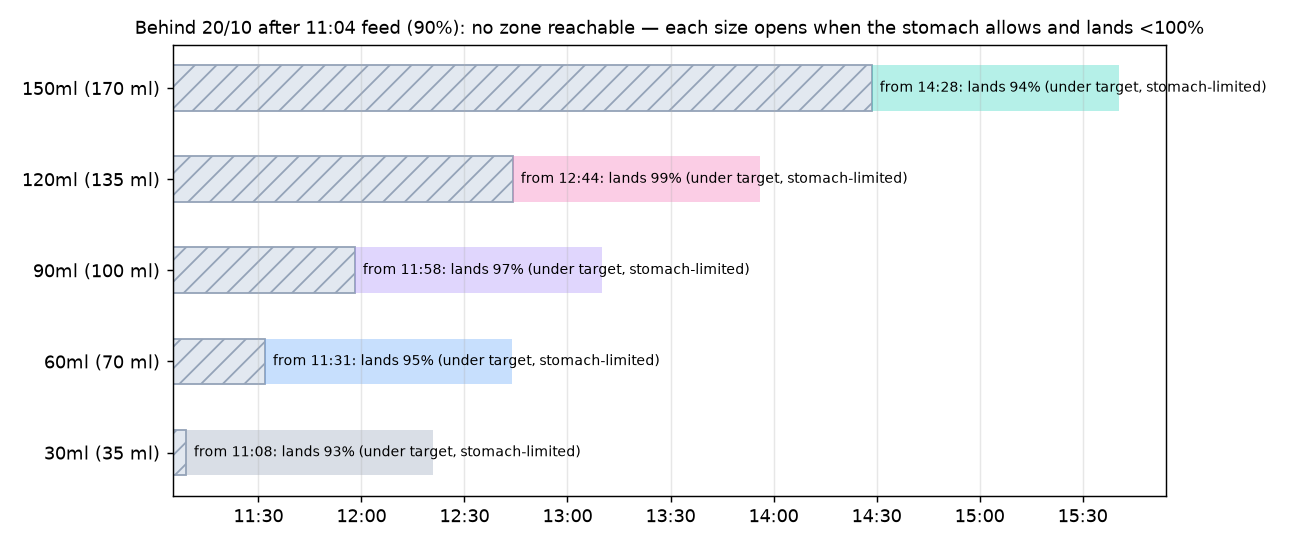
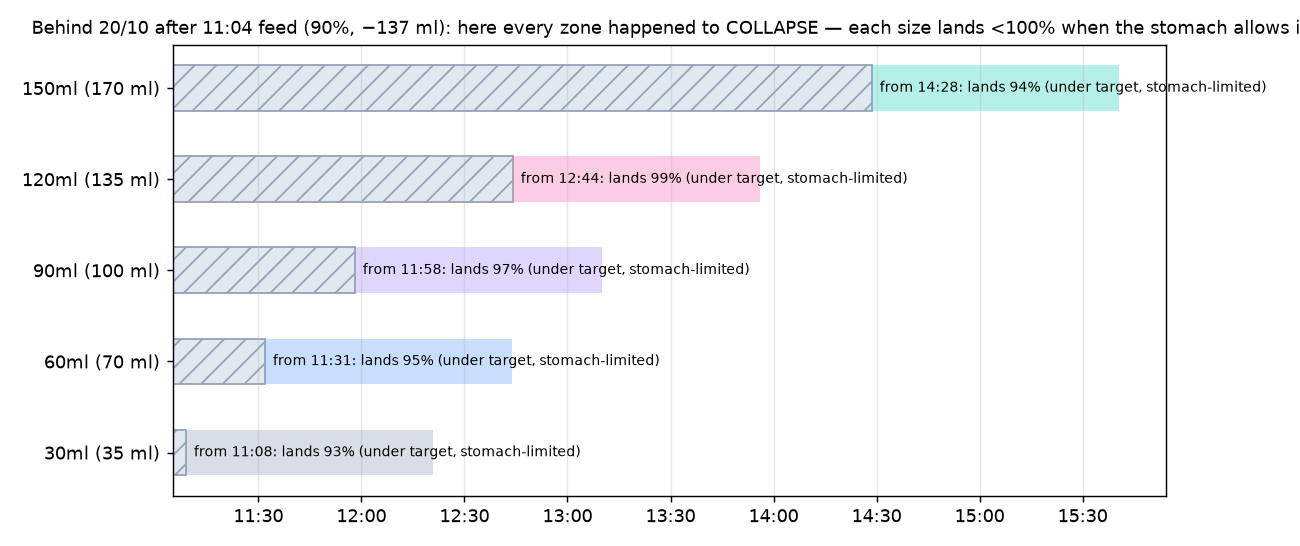
docs(feeding-zones): one per-bottle rule; behind can have real zones (proof + history scan); correction credited to Koen

Changed region(s): [[0.0, 0.0311, 1.0, 0.0623]]

diff --git a/design/2026-10-25-feeding-zones.md b/design/2026-10-25-feeding-zones.md
@@ -2,6 +2,8 @@
 
 **Status:** Brainstorm / for discussion — no code change
 **Date:** 2026-10-25 · **Author:** Grok Bot for Koen · **Applies to:** web (`baby-milk-tracker` 1.1.56, `e72acd1`) and mobile (`milkwise` 1.2.9, `e0020e3`)
+> **Correction (2026-10-25, credit: Koen).** The first version of this doc claimed that *when the baby is behind there are no real zones — every size lands under 100 %*. Koen challenged this ("a 90 bottle at the time the stomach allows it could push her to 103 %"), and he is right: being behind at the last feed (I < D) says nothing about I(S)+B at the stomach-fit time S. The ahead/behind split has been replaced by one per-bottle rule (§3.2–3.4), and a scan of the real feed history (§4.3) shows real zones while behind after **~24 % of the 'behind' feeds**. The 20/10 example is now labelled as a case where all zones *happened* to collapse.
+
 **Related:** [next-session-predictor-design-v3.md](next-session-predictor-design-v3.md) §4, §7, §8.7 · [sonnet-review-calculation-audit.md](sonnet-review-calculation-audit.md) · Notion *!Milkwise* "Milk Balance" / Predictor 3
 
 All times are Europe/Brussels. Numbers were produced with the real web `calculations.ts` (vendored copy, byte-identical to `main`) by `verify_zones.ts` (see §9).
@@ -22,7 +24,7 @@ Consequences observed on 24/10 (see the 2026-10-24 timeline analysis):
 
 - *"60 now, 30 at 16:08, 60 twice"* — the advised size gets both a ghost and a green marker (`:306-322`); fitting sizes below green are not noise-cut (v3 §7.2).
 - The future markers say 90 at 17:04 and 120 at 17:27, but green silently jumps to **90 at 16:09** and **120 at 16:30**, because green uses 105 % and the markers use 100 %.
-- In the *behind* case none of this matters (all three rules coincide, the stomach decides) — the confusion is purely an *ahead* problem.
+- The mismatch matters whenever a bottle can land above 100 % at the moment it fits the stomach — usually when ahead, but also in roughly a quarter of the *behind* situations (§4.3). Only when every zone collapses (e.g. 20/10, §4.2) do all three rules coincide.
 
 Koen's direction (2026-10-25): 100 % is the most consistent rule, drop the ghosts — but first explore **zones**.
 
@@ -39,20 +41,22 @@ Notation (all in *formula* ml): D = daily target (`dailyTargetMl`), r = D/24 (`h
 `bottleCredit` (`calculations.ts:97-108`) is `milk` for age ≤ 24 h and `max(0, milk − r·(age−24))` after. Each term is constant then linearly decreasing then 0, so I(T) is **continuous, piecewise linear and non-increasing** as long as no new feed is added. Its slope is `−r · n(T)` where n(T) = number of feeds that are older than 24 h but still have credit left (usually 1, sometimes 2 → steeper; 0 → flat plateau).
 Numerically verified: max rise of I over one-minute steps across 10 h = **0.000000 ml** in both snapshots.
 
-### 3.2 Zone of bottle X
+### 3.2 Zone of bottle X — one rule, no ahead/behind split
 
 ```
-landing(T, X) = (I(T) + B) / D                              status right after giving X at T
-open(X)  = max( stomachFits(X),  first T with I(T) + B ≤ 1.05·D )
-close(X) =                       first T with I(T) + B ≤ D
+L(T)     = I(T) + B                                  formula in the stomach-free "status after giving X at T"
+S        = stomachFits(X)  = stomachReadyAtMs(...)   (calculations.ts:442, cap = steady-state peak × 1.1)
+t105     = first T ≥ now with L(T) ≤ 1.05·D
+t100     = first T ≥ now with L(T) ≤ D
+open(X)  = max(S, t105)
+close(X) = t100
 ```
 
-`stomachFits(X)` = `stomachReadyAtMs` (`calculations.ts:442`, cap = steady-state peak × 1.1).
-Because I is non-increasing, `landing` only goes down, so each threshold is crossed exactly once: the zone is a single interval.
+**Claim.** With no new feed, X has a real zone `[open, close)` **iff `L(S) > D`, i.e. `I(S) + B > D`**. Otherwise the zone is *collapsed*: X is available from S and lands at `L(S)/D ≤ 100 %`, and the bottle can never land at 100 % or above afterwards.
 
-- If `open(X) < close(X)` → **normal zone** `[open, close]`.
-- If `open(X) ≥ close(X)` → the stomach is the binding constraint: when X first fits, it already lands **below 100 %**. Call this a **collapsed zone**: "available from `stomachFits(X)`, lands at p %, under target".
-- If `close(X) ≤ now` → the zone is **past**: X now lands below 100 %. X is still safe (it can only lower the status), it just no longer fills the gap.
+**Proof.** By §3.1, I — hence L — is non-increasing in T. (i) If L(S) > D, then t100 > S (L has not yet reached D at S), and t105 ≤ t100 (a non-increasing function reaches 1.05D before D), so open = max(S, t105) < t100 = close: a non-empty interval, on which D < L ≤ 1.05D. If moreover L(S) ≤ 1.05D, then t105 ≤ S and the zone **opens at S** ("fits the stomach and already lands within 105 %"). If L(S) > 1.05D, it opens later, at t105. (ii) If L(S) ≤ D then t100 ≤ S ≤ open, so the interval is empty; for every T ≥ S, L(T) ≤ L(S) ≤ D. ∎
+
+**Consequence for 'behind'.** "Behind" (I(t_feed) < D right after the last feed) only means I < D; it does not bound I(S) + B. A real zone despite being behind needs the remaining deficit at S to be smaller than the bottle: `D − I(S) < B`. Because I is **flat** while no feed is older than 24 h (n = 0 in §3.1), the deficit often does not grow during the stomach wait, so this happens regularly.
 
 ### 3.3 Overlap condition (exact, slope-independent)
 
@@ -82,9 +86,10 @@ With D ≈ 1390 ml, 0.05·D ≈ **69.5 ml** (69.1 on 20/10). Formula table 35, 7
 
 So **every neighbouring pair overlaps** and some next-but-one pairs overlap a few minutes. This is weight-dependent: at D < 700 ml (≈ 4.7 kg) the 35-ml steps stop overlapping; for a bigger baby overlaps grow. Koen's intuition ("while 90 goes from 105 now to 100 later, 120 kicks in at 105") is **mathematically correct**.
 
-### 3.4 Behind case semantics
+### 3.4 Behind vs ahead — only a matter of which case of §3.2 applies
 
-When I(now) + B ≤ D, `close(X) = now` already: X cannot reach 100 % and **waiting never helps** (I only decreases). So when the baby is behind there are no real zones; every size is "open, under target" from the moment the stomach allows it. Note: this also shows that v3 §8.7's *goal* ("wait until X lands at 100 %") is unreachable by waiting; its algorithm is just the 100 % rule.
+There is no separate behind rule. Per bottle: real zone if `I(S)+B > D`, collapsed otherwise. When behind, small bottles and long stomach waits tend to collapse; bottles with `B > D − I(S)` get a real zone exactly as in the ahead case.
+Note on v3 §8.7: for a *collapsed* bottle, waiting indeed never helps (L only decreases), so §8.7's goal "wait until X lands at 100 %" is unreachable for that bottle; for a non-collapsed bottle the 100 % time is simply `close(X)`. Either way §8.7's algorithm equals the 100 % rule.
 
 ### 3.5 Sizes above preferred + 1, stomach cap
 
@@ -112,7 +117,7 @@ Overlaps: 30/60 28 min, 60/90 25 min, 90/120 35 min, 30/90 3 min, 60/120 4 min. 
 
 *Figure B — zones per size, ahead case. Hatched = stomach full; solid = zone; pale tail = after close (lands < 100 %).*
 
-### 4.2 Behind — 20/10, after 120 at 11:04 (status 90.1 %, −137 ml, D = 1382.3)
+### 4.2 Behind, all zones happened to collapse — 20/10, after 120 at 11:04 (status 90.1 %, −137 ml, D = 1382.3)
 
 | Size | Stomach fits | Lands at that moment | Zone |
 |---|---|---|---|
@@ -122,11 +127,30 @@ Overlaps: 30/60 28 min, 60/90 25 min, 90/120 35 min, 30/90 3 min, 60/120 4 min. 
 | 120 | 12:44 | 98.9 % | collapsed |
 | 150 | 14:28 | 94.1 % | collapsed |
 
-The stomach dictates everything; sizes appear one by one; none reaches 100 %.
+Here every size collapses, **not because she is behind but because the deficit is larger than every bottle at its stomach time**: D − I(S) ≥ 137 ml vs B = 35…135 ml for 30…120; for 150 (170 ml) the 3 h 24 min stomach wait lets I decay further (14:28: deficit ≈ 270 ml), so it also lands under 100 % (94.1 %).
 
 ![Gantt — behind](img/zones-c-gantt-behind.png)
 
-*Figure C — behind case: no reachable zone; each size is available from its stomach time and lands under target.*
+*Figure C — 20/10: a behind case in which every zone collapsed (deficit > bottle at stomach-fit time).*
+
+### 4.3 Behind with real zones — real feed history scan
+
+`scan_behind_zones.ts` replays every feed since data start (31/05/2026, 1142 feeds; first 24 h skipped), with the weight/D valid on that day and the current preferred size 120 (so sizes 30–150). For each feed whose post-feed status was < 100 %, it checks each size for `I(S)+B > D` with S before the actual next feed.
+
+| Snapshot | Feeds evaluated | Behind after feed | Behind *with* ≥1 real zone | Share |
+|---|---|---|---|---|
+| 24/10 | 1131 | 847 | **203** | 24.0 % of behind · 17.9 % of all |
+| 20/10 | 1094 | 827 | 202 | 24.4 % · 18.5 % |
+
+Real zones by size (24/10): 30: 94 · 60: 163 · 90: 186 · 120: 149 · 150: 3. (Caveat: preferred size was not always 120 historically.)
+
+Example 1 — **16/10 17:01, 120 given, status 98.2 % (−24 ml)**: 30 zone 17:11–18:11 (lands 100.8 % when it fits), 60 17:34–18:48 (103.3 %), **90 18:08–19:19 (lands 105.5 % at 18:00 → opens at 105 % at 18:08 and closes at 100 %)**, 120 18:46–19:55 (104.8 %), 150 collapsed (99.9 %). Actual next feed 19:18 — inside the 90 and 120 zones. This is exactly Koen's scenario.
+
+Example 2 — **22/10 19:15, 70 ml, status 96.0 % (−56 ml), intake flat for the next hour**: 60 zone 19:42–20:44 (lands 101.0 %), 90 20:08–21:15 (103.2 %); 30 and 150 collapsed; 120's zone (lands 104.0 % at 20:54) starts after the actual next feed at 20:45.
+
+![Gantt — behind with real zones](img/zones-e-gantt-behind-real-zone.png)
+
+*Figure E — real data 16/10: behind after the feed, yet 30/60/90/120 have real zones.*
 
 ## 5. UI options
 
@@ -136,7 +160,7 @@ The stomach dictates everything; sizes appear one by one; none reaches 100 %.
 
 Rules proposed for discussion:
 
-1. **Green = largest size whose zone contains now** (lands between 100 and 105 %). If none: behind → largest size that fits the stomach (labelled "under target"); ahead → nothing green, next zone opening shown.
+1. **Green = largest size whose zone contains now** (lands between 100 and 105 %). If none is in zone: if some sizes are collapsed and fit now → largest of them, labelled "under target"; otherwise nothing green and the next opening is shown.
 2. **Noise-cut**: hide sizes whose zone is past, and optionally smaller sizes in zone (show only green + upcoming).
 3. **Labels**: bar from open to close; label `90 · 16:09–17:05`, with the close marked as "ideal".
 4. **No ghosts** — the bar's left end already says "since when".
@@ -145,7 +169,7 @@ Rules proposed for discussion:
 ## 6. Edge cases
 
 - **Stomach-limited**: open = stomachFits; if ≥ close → collapsed zone (show as a point with "lands p %").
-- **Behind**: all collapsed, see §3.4. Possibly add text "behind — give the largest size that fits".
+- **Behind**: no special case — per bottle, real zone or collapsed (§3.2). If *all* fitting sizes are collapsed, possibly show "behind — give the largest size that fits".
 - **Right after a feed**: everything is in the future; first zone opens when the stomach allows and intake ≤ 1.05D − B.
 - **Deep overfeed**: zones can be > 48 h away → reuse the 48 h cap from `intakeReadyAtMs` and show "later".
 - **Plateau (n = 0)**: zones stretch; no change to rules.
@@ -160,14 +184,14 @@ Rules proposed for discussion:
 
 ## 8. Code impact (when/if adopted)
 
-- `calculations.ts` (web `:477-551`, mobile `:417-480`): add `intakeZone(feeds, B, r, D, now) → { openMs, closeMs, landingAtOpenPct, state }`; `canTakeProgression` returns zones; `fitsNow` = `open ≤ now < close` (or behind rule).
+- `calculations.ts` (web `:477-551`, mobile `:417-480`): add `intakeZone(feeds, B, r, D, now) → { openMs, closeMs, landingAtOpenPct, state }`; `canTakeProgression` returns zones; `fitsNow` = `open ≤ now < close`, or collapsed and `S ≤ now`.
 - Remove `ghostIntakeReadyAtMs` (web `CanTakeCard.tsx:57`, mobile `calculations.ts:202`) and the ghost map (web `:134-160`, mobile `DashboardScreen.tsx:215-229`).
 - Rendering: web `CanTakeCard.tsx:303-345`, mobile `DashboardScreen.tsx:257-269` → bars.
 - Docs: v3 §7 rewritten; §8.7 rewritten (see §3.4).
 
 ## 9. Reproduction
 
-Verifier (outside the repo, read-only): `/workspace/milkwise-verify/verify_zones.ts <db> <ISO time> <out.json>`; charts by `zones/plot.py`. Snapshots `milkwise-data-20261024-161114` (ahead, ref 14:31) and `milkwise-data-20261020-111441` (behind, ref 11:05).
+Verifier (outside the repo, read-only): `/workspace/milkwise-verify/verify_zones.ts <db> <ISO time> <out.json>`; charts by `zones/plot.py` and `zones/plot_behind_real.py`; history scan `scan_behind_zones.ts <db> <out.json>`. Snapshots `milkwise-data-20261024-161114` (ahead, ref 14:31) and `milkwise-data-20261020-111441` (behind, ref 11:05).
 
 ## 10. Open questions for Koen
 
